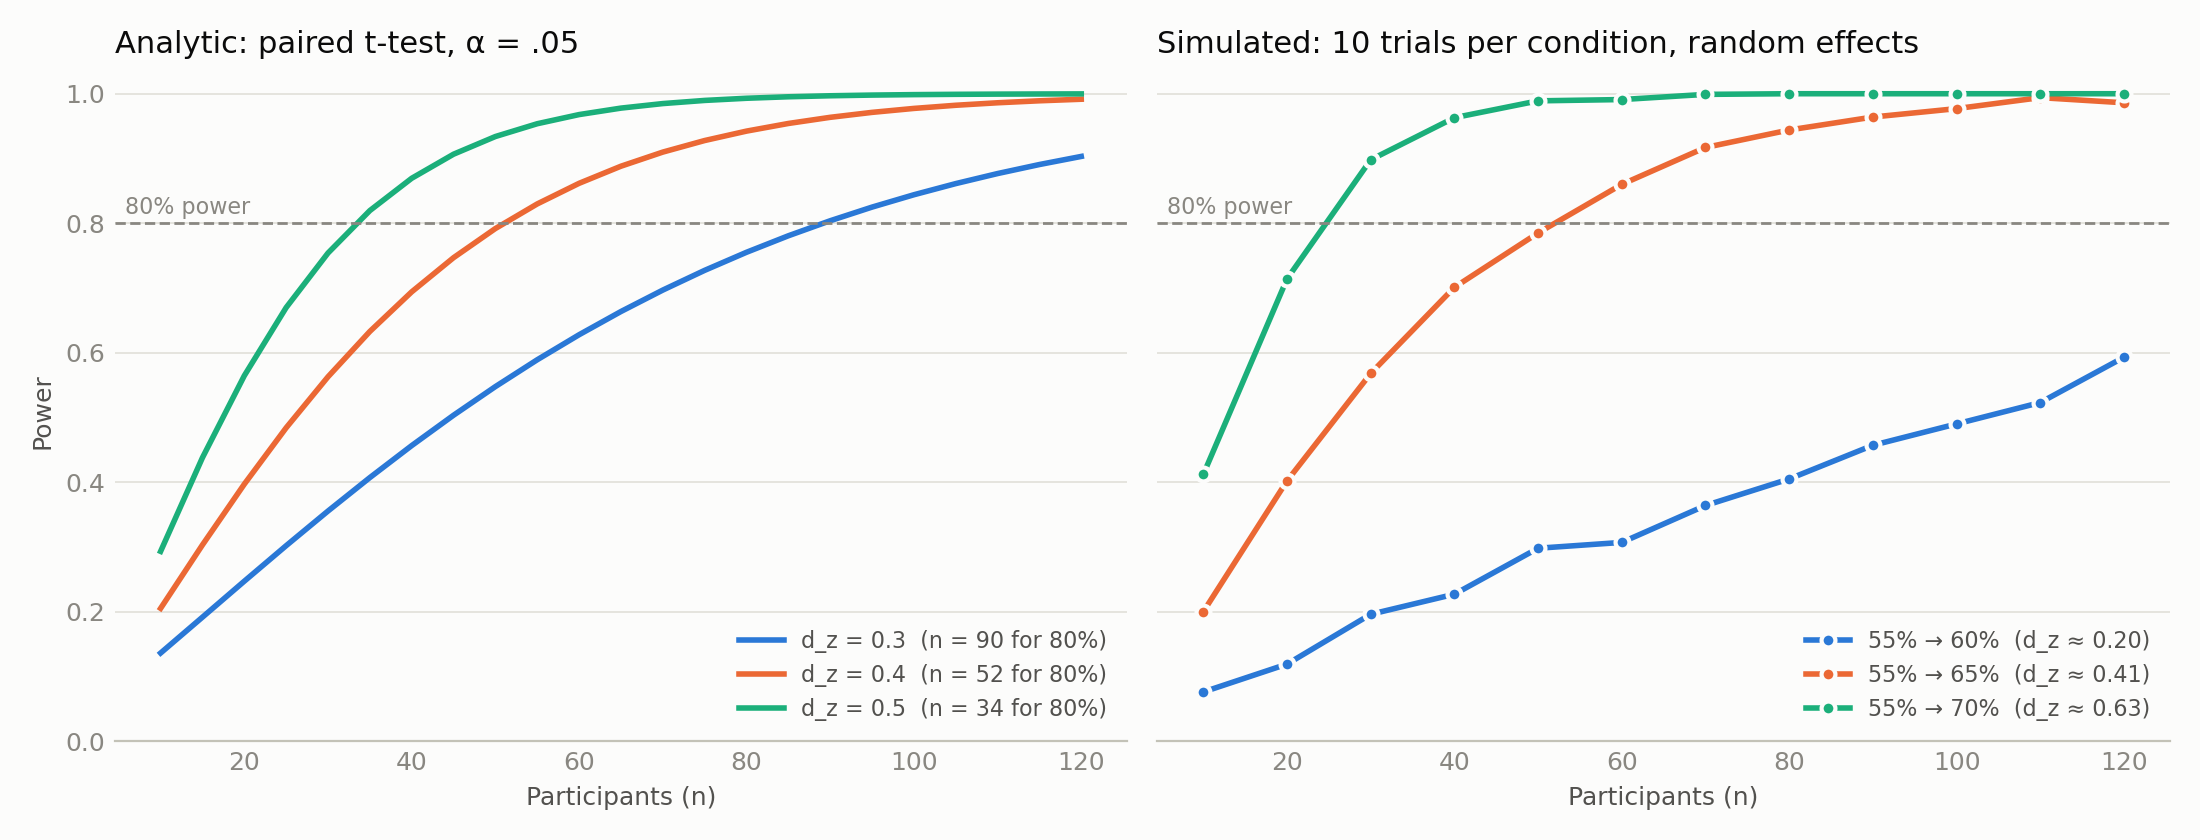
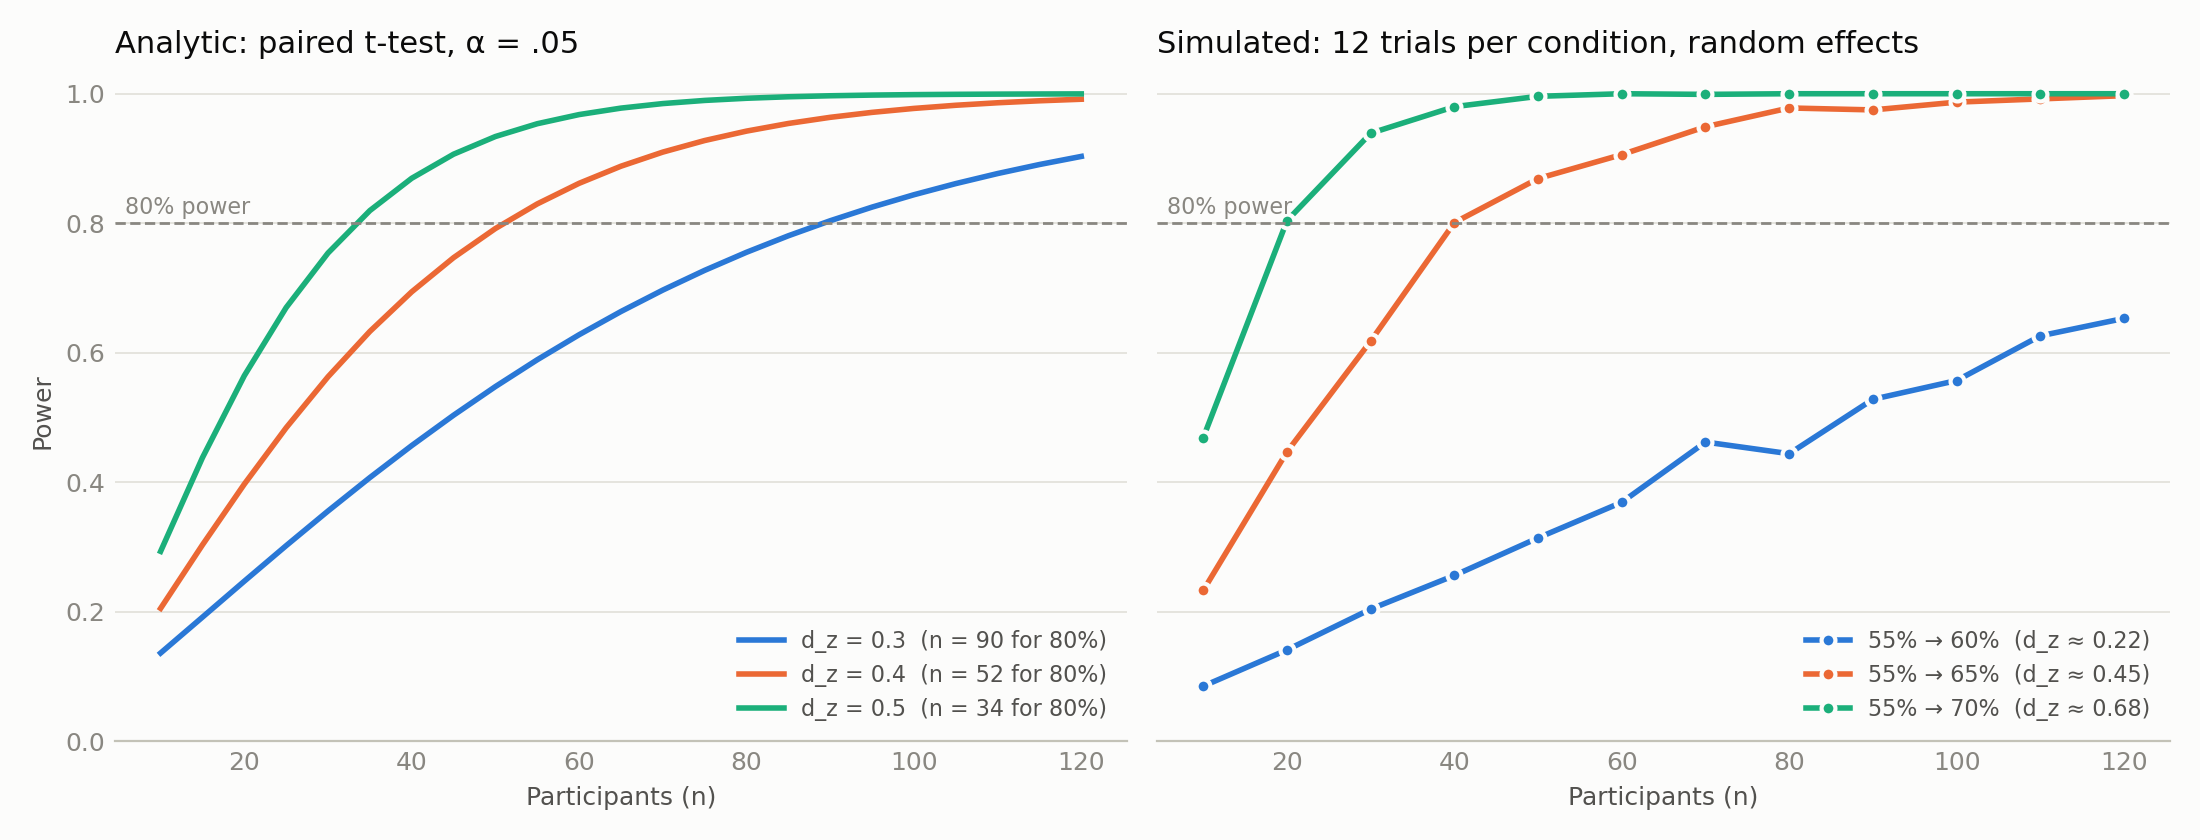
Expand the design to 6 text + 6 no-text stickers per culture (36 total)
Turkish set now has all 12: SİKİN added as text, cropped Caillou face
as no-text, gusam mı hocam and İlber Ortaylı restored. CN and EN get a
sixth placeholder in each cell. Latin-square dealing generalised; every
cell now splits 2/2/2 across sets. Power simulation and docs updated.

diff --git a/web/index.html b/web/index.html
@@ -14,7 +14,7 @@
   <!-- 1. Landing / consent -->
   <section id="screen-intro" class="screen">
     <h1>What does this sticker mean?</h1>
-    <p>A 4-minute study for a Duke class project. You will see 31 stickers, some on their own and some inside a chat, and pick what the sender most likely means.</p>
+    <p>A 4-minute study for a Duke class project. You will see <span id="n-stickers">37</span> stickers, some on their own and some inside a chat, and pick what the sender most likely means.</p>
     <p class="giveaway-banner">🧸 Finish and you can enter a draw to win a <strong>baby squishy</strong>.</p>
     <ul class="bullets">
       <li>There are no right or wrong answers. Go with your first instinct.</li>

diff --git a/web/app.js b/web/app.js
@@ -400,6 +400,7 @@
       return;
     }
     preload(conditions.stickers);
+    $("#n-stickers").textContent = conditions.stickers.filter((s) => s.set || s.culture === "ATTN").length;
 
     $("#btn-start").addEventListener("click", onStart);
     $("#survey-form").addEventListener("submit", onSurveySubmit);

diff --git a/src/collection/assign_conditions.py b/src/collection/assign_conditions.py
@@ -31,25 +31,25 @@ ROTATIONS = {
 
 
 def assign_sets(stimuli: pd.DataFrame) -> pd.DataFrame:
-    """Deal each culture x has_text cell of 5 stickers across sets A/B/C.
+    """Deal each culture x has_text cell across sets A/B/C as evenly as possible.
 
-    Each cell contributes 2/2/1 stickers; which set receives the single sticker
-    rotates across cells, so every set ends up with exactly 10. Within a cell,
-    stickers are sorted by intended sentiment before dealing so each set gets a
-    spread of sentiments rather than a cluster.
+    Stickers in a cell are sorted by intended sentiment and dealt round-robin,
+    so each set gets a spread of sentiments rather than a cluster. The starting
+    set rotates across cells, so if a cell size isn't a multiple of 3 the extra
+    stickers don't all land in the same set. The total must be a multiple of 3
+    so the three sets end up equal in size.
     """
     exp = stimuli[stimuli["culture"] != "ATTN"].copy()
     exp["_sent"] = exp["intended_sentiment"].map(SENTIMENT_ORDER).fillna(9)
 
     assigned = []
     cells = exp.groupby(["culture", "has_text"], sort=True)
-    for cell_idx, (_, cell) in enumerate(cells):
+    offset = 0
+    for _, cell in cells:
         cell = cell.sort_values(["_sent", "sticker_id"])
-        short_set = SETS[(2 - cell_idx) % 3]  # set receiving only 1 from this cell
-        order = [s for s in SETS if s != short_set] * 2 + [short_set]
-        # Dealing round-robin over `order` gives 2/2/1.
-        for sticker_id, set_name in zip(cell["sticker_id"], order):
-            assigned.append({"sticker_id": sticker_id, "set": set_name})
+        for i, sticker_id in enumerate(cell["sticker_id"]):
+            assigned.append({"sticker_id": sticker_id, "set": SETS[(i + offset) % 3]})
+        offset += len(cell)
 
     sets = pd.DataFrame(assigned)
     counts = sets["set"].value_counts()

diff --git a/src/analysis/power_analysis.py b/src/analysis/power_analysis.py
@@ -33,8 +33,8 @@ from statsmodels.stats.power import TTestPower
 ROOT = Path(__file__).resolve().parents[2]
 ALPHA = 0.05
 TARGET_POWER = 0.80
-N_STICKERS = 30
-TRIALS_PER_CONDITION = 10
+N_STICKERS = 36
+TRIALS_PER_CONDITION = 12
 
 # Chart tokens (light surface).
 SURFACE = "#fcfcfb"
@@ -137,7 +137,7 @@ def plot(analytic, sim, out_path):
         ax.plot(grp["n"], grp["power"], color=color, linewidth=2, marker="o",
                 markersize=5, markeredgecolor=SURFACE, markeredgewidth=1.5,
                 label=f"{baseline:.0%} → {baseline + lift:.0%}  (d_z ≈ {d_mid:.2f})")
-    style_axis(ax, "Simulated: 10 trials per condition, random effects")
+    style_axis(ax, f"Simulated: {TRIALS_PER_CONDITION} trials per condition, random effects")
     ax.legend(frameon=False, fontsize=8, labelcolor=INK_2, loc="lower right")
 
     fig.tight_layout()

diff --git a/src/collection/make_placeholder_stickers.py b/src/collection/make_placeholder_stickers.py
@@ -53,6 +53,10 @@ SPEC = {
     "EN_NOTXT_03": ("🙄", None),
     "EN_NOTXT_04": ("🦭👍", None),
     "EN_NOTXT_05": ("😢", None),
+    "CN_TXT_06": ("👌", "收到"),
+    "CN_NOTXT_06": ("🐼🙏", None),
+    "EN_TXT_06": ("🙃", "it is what it is"),
+    "EN_NOTXT_06": ("😐", None),
     "ATTN_01": ("👉", "Please select POSITIVE"),
 }
 

diff --git a/PROJECT_BRIEF.md b/PROJECT_BRIEF.md
@@ -39,19 +39,19 @@ Framing for the report: the in-group advantage in cross-cultural emotion recogni
 
 One online session, ~4 minutes on a phone, one link for everyone. No separate stimulus-collection phase.
 
-### 3.1 Stimuli — 30 stickers + 1 attention check
+### 3.1 Stimuli — 36 stickers + 1 attention check
 
 | | text on sticker | no text | author (writes answer key + chat line) |
 |---|---|---|---|
-| **Turkish (TR)** | 5 | 5 | Burak |
-| **Chinese (CN)** | 5 | 5 | teammate |
-| **English / American (EN)** | 5 | 5 | both, checked by an American classmate |
+| **Turkish (TR)** | 6 | 6 | Burak |
+| **Chinese (CN)** | 6 | 6 | teammate |
+| **English / American (EN)** | 6 | 6 | both, checked by an American classmate |
 
 For every sticker the author records, **before launch**:
 - `intended_sentiment` — positive / negative / sarcastic. This is the answer key (**sender intent**).
 - `chat_line` — a realistic message, **written in English**, that the sticker would be sent in reply to. English so that the context is readable by everyone; the sticker's own text stays in its original language.
 
-Sentiment roughly balanced within each culture (~4/3/3 across the three options).
+Sentiment roughly balanced within each culture (~2/2/2 across the three options within each 6-sticker cell).
 
 **Exclude:** any sticker showing the face of a classmate, friend, or child. Profanity is allowed (it is part of how these stickers are used); say so in the report's limitations/ethics note.
 **Licensing:** licensed characters (Shrek, Hello Kitty, etc.) may be shown on the task page but are **not committed to the repo** (`in_repo = 0` in `data/stimuli.csv`; describe them in text).
@@ -75,13 +75,13 @@ Context conditions:
 ### 3.3 Session flow
 
 1. **Consent + pre-survey (~30 s):** familiarity with Turkish / Chinese / American culture (none · some · native each) · meme fluency (1–5) · native language · age bracket · sticker-use frequency (daily · weekly · rarely) · device (auto-detected).
-2. **30 trials + 1 attention check, random order.** Each sticker appears exactly once, in one context condition. Question: *"What does the sender mean?"* (positive · negative · sarcastic) then *"How confident are you?"* (1–5).
+2. **36 trials + 1 attention check, random order.** Each sticker appears exactly once, in one context condition. Question: *"What does the sender mean?"* (positive · negative · sarcastic) then *"How confident are you?"* (1–5).
 3. **Bonus block (optional):** 3 stickers shown alone — *"What message would you send this after?"* (free text). Placed last so it cannot influence the main trials.
 4. Thank-you screen.
 
 ### 3.4 Randomization (Latin square)
 
-`src/collection/assign_conditions.py` splits the 30 stickers into three sets **A, B, C** of 10, balanced on culture × has_text (and spread across sentiment as far as possible). Each participant is assigned one of three rotations:
+`src/collection/assign_conditions.py` splits the 36 stickers into three sets **A, B, C** of 12, balanced on culture × has_text (and spread across sentiment as far as possible). Each participant is assigned one of three rotations:
 
 | rotation | alone | chat | text_only |
 |---|---|---|---|
@@ -120,7 +120,7 @@ For each sticker, take in-group participants' trials where the sticker is visibl
 | H2, H3 | Mixed-effects logistic regression: `correct ~ context * in_group + has_text + (1 | participant) + (1 | sticker)` | odds ratios, 95% CI |
 | H4 | Exact binomial test vs. p = 1/3 on out-group trials | exact CI, Cohen's h |
 
-Assumptions to check and report: normality of paired differences (Shapiro–Wilk + QQ plot), sphericity (Mauchly), and why the mixed model is needed (30 non-independent trials per person, stickers as a random sample).
+Assumptions to check and report: normality of paired differences (Shapiro–Wilk + QQ plot), sphericity (Mauchly), and why the mixed model is needed (36 non-independent trials per person, stickers as a random sample).
 
 ---
 
@@ -130,7 +130,7 @@ Assumptions to check and report: normality of paired differences (Shapiro–Wilk
 - d_z = 0.4 → **n ≈ 52**; d_z = 0.5 → n ≈ 34.
 - **Target 70–100 participants, including ≥ 15 natives per culture** (TR from Burak's network, CN from teammate's, US from class).
 - H3 (interaction) is adequately powered only for medium-to-large effects — say so.
-- `src/analysis/power_analysis.py` does it two ways: (1) analytic (`statsmodels` `TTestPower`), (2) simulation of the actual trial structure (10 binary trials per condition per person, participant and sticker random effects) to show what accuracy lift d_z = 0.4 corresponds to.
+- `src/analysis/power_analysis.py` does it two ways: (1) analytic (`statsmodels` `TTestPower`), (2) simulation of the actual trial structure (12 binary trials per condition per person, participant and sticker random effects) to show what accuracy lift d_z = 0.4 corresponds to.
 - Pilot (5 people) re-estimates baseline accuracy and the SD of per-person differences.
 
 ---
@@ -228,6 +228,6 @@ sticker-comms/
 - Answer key is sender intent from one author per culture; validated by in-group agreement but sarcasm is inherently ambiguous.
 - EN stickers authored by non-native speakers unless the classmate check happens.
 - Chat lines are in English for all cultures — less authentic for TR/CN, deliberately chosen so context is accessible.
-- 30 trials per person → mixed model handles non-independence.
+- 36 trials per person → mixed model handles non-independence.
 - Interaction underpowered for small effects.
 - Stickers shown outside the WhatsApp UI.

diff --git a/README.md b/README.md
@@ -2,7 +2,7 @@
 
 **Can people tell what a WhatsApp sticker means when it comes from a culture they're not part of, and does seeing it inside a chat help?**
 
-Module Project 2 (Statistical Analysis), Duke AIPI 510. A within-subject experiment: participants judge the intended sentiment (positive / negative / sarcastic) of 30 Turkish, Chinese and English/American stickers. Each sticker is shown alone, in a mock chat, or as the chat line only (sticker hidden), with the condition counterbalanced by a Latin square.
+Module Project 2 (Statistical Analysis), Duke AIPI 510. A within-subject experiment: participants judge the intended sentiment (positive / negative / sarcastic) of 36 Turkish, Chinese and English/American stickers (6 with text and 6 without per culture). Each sticker is shown alone, in a mock chat, or as the chat line only (sticker hidden), with the condition counterbalanced by a Latin square.
 
 The full design, hypotheses, analysis plan and timeline are in [PROJECT_BRIEF.md](PROJECT_BRIEF.md).
 
